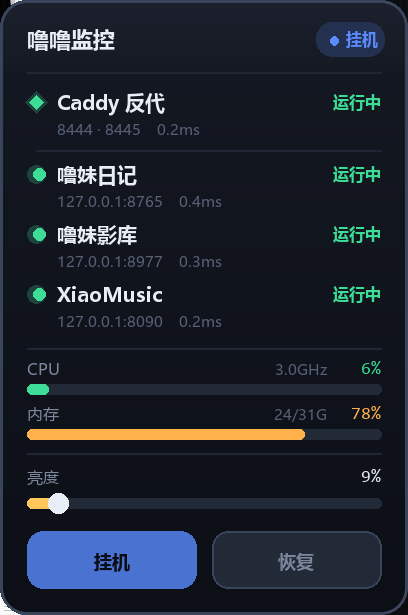
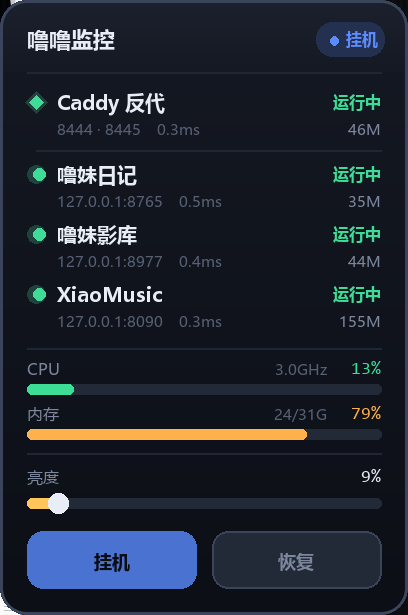
feat(widget): 服务行显示各自的进程树内存占用
每个服务/Caddy 的副标题右侧加内存读数（如 35M / 156M），
右对齐排在与「运行中」同一列，方便纵向比较谁吃内存。

统计口径：
- listen_pids() 用一次 psutil.net_connections() 把 5 个端口对应的
  pid 全查出来（本机 900 条连接，实测 6ms），不逐个反查。
- tree_rss_mb() 对 pid 取 children(recursive=True) 做进程树求和：
  XiaoMusic 主进程 98M + 它拉起的 node.exe 58M = 156M，
  只看主进程会少报一半。
- 不往上算父进程（venv 启动器、wscript 是外壳，会爬进 explorer.exe）；
  排除 conhost.exe（控制台宿主，按控制台分配、会被复用）。
- fmt_mb() 归一单位：<1024M 显示 35M，否则 1.5G。
- 服务没在监听时不显示内存（pid 反查不到）。

实测：日记 35M、影库 44M、XiaoMusic 154M、Caddy 44M，连续 5 次采样稳定。
下线态已验证：不显示内存、圆点转红、Caddy 部分可用显示「部分」。

diff --git a/lulu-watch/widget.py b/lulu-watch/widget.py
@@ -192,6 +192,59 @@ def probe_caddy(ports=None, timeout=0.35):
     return live, best
 
 
+def listen_pids(ports):
+    """一次枚举所有 TCP 监听，返回 {端口: pid}。比逐个端口反查快得多，
+    而且一次调用就能把四个服务全查完（本机 900 来条连接，实测 6ms）。"""
+    want = set(ports)
+    out = {}
+    try:
+        for c in psutil.net_connections(kind="tcp"):
+            if c.status != psutil.CONN_LISTEN or not c.laddr:
+                continue
+            port = c.laddr.port
+            if port in want and c.pid:
+                out.setdefault(port, c.pid)
+    except Exception:
+        pass
+    return out
+
+
+def tree_rss_mb(pid):
+    """pid 及其全部子孙进程的常驻内存合计（MB）。
+
+    必须算子进程：XiaoMusic 主进程 98M，它还拉一个 node 跑 js 插件再占 58M，
+    只看主进程会少报一半。反过来**不**往上算父进程——venv 启动器、
+    wscript 那些是外壳，一路往上会爬进 explorer.exe。
+    conhost.exe 也排除：那是 Windows 的控制台宿主，按控制台分配、会被复用，
+    不是服务自己的开销。"""
+    if not pid:
+        return None
+    try:
+        p = psutil.Process(pid)
+        procs = [p] + p.children(recursive=True)
+    except Exception:
+        return None
+    total, got = 0, False
+    for q in procs:
+        try:
+            if q.name().lower() == "conhost.exe":
+                continue
+            total += q.memory_info().rss
+            got = True
+        except Exception:
+            continue
+    return total / (1024 ** 2) if got else None
+
+
+def fmt_mb(mb):
+    """35 -> '35M'，1560 -> '1.5G'。统一成 3-4 个字符宽，右对齐才齐整。"""
+    if mb is None:
+        return ""
+    if mb >= 1024:
+        return f"{mb / 1024:.1f}G"
+    return f"{mb:.0f}M"
+
+
 def active_scheme():
     try:
         import winreg
@@ -599,6 +652,10 @@ def build_image(data, hover=None, k=None):
         sub = " / ".join(str(p) for p in CADDY_PORTS) + " 都没在听" if CADDY_PORTS else "没配端口"
     d.text((px(38), px(csy)), sub, font=F["sub"], fill=CLR["fg_faint"],
            anchor="lm")
+    cmem = fmt_mb(cad.get("mem"))
+    if cmem:
+        d.text((pw - px(18), px(csy)), cmem, font=F["sub"],
+               fill=CLR["fg_dim"], anchor="rm")
 
     # 入口与后端之间用更淡的分隔，暗示「这两条服务挂在它后面」
     d.line([(px(24), px(100)), (pw - px(18), px(100))],
@@ -622,6 +679,11 @@ def build_image(data, hover=None, k=None):
             sub += f"    {s['ms']:.1f}ms"
         d.text((px(38), px(sy)), sub, font=F["sub"], fill=CLR["fg_faint"],
                anchor="lm")
+        # 内存单独右对齐：让它和上面那排「运行中」右边缘对齐，扫一眼就能纵向比大小
+        smem = fmt_mb(s.get("mem"))
+        if smem:
+            d.text((pw - px(18), px(sy)), smem, font=F["sub"],
+                   fill=CLR["fg_dim"], anchor="rm")
 
     d.line([(px(18), px(232)), (pw - px(18), px(232))],
            fill=CLR["divider"], width=lw)
@@ -739,16 +801,24 @@ class Sampler(threading.Thread):
         while not self.stop_flag:
             try:
                 vm = psutil.virtual_memory()
+                # 端口 -> pid 一次查完（四个服务 + Caddy 两个端口共用一次枚举），
+                # 再按 pid 汇总各自进程树的内存
+                pidmap = listen_pids([p for _, p in SERVICES] + CADDY_PORTS)
                 svc = []
                 for name, port in SERVICES:
                     up, ms = probe_port(port)
-                    svc.append({"name": name, "port": port, "up": up, "ms": ms})
+                    mb = tree_rss_mb(pidmap.get(port)) if up else None
+                    svc.append({"name": name, "port": port, "up": up,
+                                "ms": ms, "mem": mb})
                 live, cms = probe_caddy()
+                # Caddy 两个站点在同一个进程里，取任一在听的端口即可
+                cpid = next((pidmap[p] for p in live if p in pidmap), None)
                 caddy = {
                     "live": live,
                     "ms": cms,
                     "state": ("ok" if len(live) == len(CADDY_PORTS)
                               else "warn" if live else "down"),
+                    "mem": tree_rss_mb(cpid),
                 }
                 self.q.put({
                     "cpu": psutil.cpu_percent(interval=None),
@@ -797,9 +867,9 @@ class Widget:
 
         self.data = {
             "cpu": 0.0, "mem": 0.0, "mem_used": 0, "mem_total": 0,
-            "svc": [{"name": n, "port": p, "up": False, "ms": None}
-                    for n, p in SERVICES],
-            "caddy": {"live": [], "ms": None, "state": "down"},
+            "svc": [{"name": n, "port": p, "up": False, "ms": None,
+                     "mem": None} for n, p in SERVICES],
+            "caddy": {"live": [], "ms": None, "state": "down", "mem": None},
             "scheme": active_scheme(),
             "bright": None,
             "bright_label": "亮度",
@@ -1145,14 +1215,19 @@ class Widget:
         st = cad.get("state")
         word = {"ok": "运行中", "warn": "部分", }.get(st, "未运行")
         live = cad.get("live") or []
-        return "%s  %s（%s）" % (CADDY_NAME, word,
-                                "·".join(str(p) for p in live) or "无端口")
+        return "%s  %s（%s）%s" % (CADDY_NAME, word,
+                                  "·".join(str(p) for p in live) or "无端口",
+                                  "  " + fmt_mb(cad.get("mem"))
+                                  if cad.get("mem") else "")
 
     def _svc_line(self, i):
         svc = self.data.get("svc") or []
         if i < len(svc):
             s = svc[i]
-            return "%s  %s" % (s["name"], "运行中" if s.get("up") else "未响应")
+            mem = fmt_mb(s.get("mem"))
+            return "%s  %s%s" % (s["name"],
+                                 "运行中" if s.get("up") else "未响应",
+                                 "  " + mem if mem else "")
         return "—"
 
     def _bright_line(self):
@@ -1229,16 +1304,20 @@ class Widget:
 # ==================== 预览 ====================
 def preview(k=2.0):
     scheme = active_scheme()
+    pidmap = listen_pids([p for _, p in SERVICES] + CADDY_PORTS)
     svc = []
     for name, port in SERVICES:
         up, ms = probe_port(port)
-        svc.append({"name": name, "port": port, "up": up, "ms": ms})
+        svc.append({"name": name, "port": port, "up": up, "ms": ms,
+                    "mem": tree_rss_mb(pidmap.get(port)) if up else None})
     live, cms = probe_caddy()
+    cpid = next((pidmap[p] for p in live if p in pidmap), None)
     caddy = {
         "live": live,
         "ms": cms,
         "state": ("ok" if len(live) == len(CADDY_PORTS)
                   else "warn" if live else "down"),
+        "mem": tree_rss_mb(cpid),
     }
     vm = psutil.virtual_memory()
     # 预览不真去读写显示器（DDC/CI 一次 60ms，且会改到用户当前的亮度），

diff --git a/lulu-watch/README.md b/lulu-watch/README.md
@@ -12,7 +12,7 @@ Windows 桌面小贴纸。透明圆角卡片，常驻右下角，实时显示本
 |---|---|
 | 顶部徽章 | 当前电源方案名称，颜色随方案变化（挂机=蓝、恢复=绿、守夜=紫、高性能=橙） |
 | Caddy 入口 | 8444 / 8445 哪个站点在听、握手耗时；菱形圆点 + 分隔线，表示它是下面日记/影库共用的入口 |
-| 服务状态 | 噜妹日记（8765）、噜妹影库（8977）、XiaoMusic（8090）是否监听、握手耗时 ms |
+| 服务状态 | 噜妹日记（8765）、噜妹影库（8977）、XiaoMusic（8090）是否监听、握手耗时 ms、**进程树常驻内存** |
 | 指标 | CPU 占用 + 当前频率、内存占用 + 已用/总量 |
 | 亮度 | 2K 那台显示器（AOC Q27G1WG4）的 DDC/CI 硬件亮度，可拖滑杆或点滑杆直接跳；托盘菜单还有 30/50/70/100% 四档 |
 | 按钮 | 「挂机」「恢复」一键切换电源方案，当前方案按钮高亮 |
@@ -100,6 +100,11 @@ python  widget.py --preview  :: 只渲染预览图 preview.png / preview_dark.pn
 - **按物理像素渲染**：启动时 `SetProcessDpiAwareness(1)` 取系统 DPI，`SCALE = dpi/96`，窗口尺寸与所有坐标都乘 `SCALE`，避免 4K/150% 缩放下文字被系统二次拉伸发虚。
 - **透明圆角**：窗口 `-transparentcolor #ff00ff` 抠图；圆角蒙版单独用 L 通道超采样（`SS` 倍）后二值化阈值化，避免缩放后边缘残留洋红像素。渐变背景层按 `SCALE` 缓存复用，不每帧重绘。
 - **采样与绘制解耦**：后台线程每 1.2s 采一次 `psutil` + 五次 TCP 握手（Caddy 两个端口 + 三个服务端口），放进 `queue`；主线程 `after(150ms)` 非阻塞取最新值重绘。
+- **服务内存怎么算的**：先 `listen_pids()` 用**一次** `psutil.net_connections()` 把四个端口对应的 pid 全查出来（本机 900 来条连接，实测 6ms；逐个端口反查要慢一个量级），再对每个 pid 取 `Process(pid).children(recursive=True)` 做**进程树**求和，取 `memory_info().rss`。
+  - **必须算子进程**：XiaoMusic 主进程 98M，它还拉一个 `node.exe` 跑 js 插件再占 58M，只统计主进程会少报一半（显示 98M 而不是 156M）。
+  - **不往上算父进程**：venv 启动器、`wscript.exe` 这些是外壳，一路往上会爬进 `explorer.exe`，把整个桌面算进去。
+  - **排除 `conhost.exe`**：那是 Windows 的控制台宿主，按控制台分配、会被复用，不是服务自己的开销（Caddy 会带一个 10M 的）。
+  - 单位在 `fmt_mb()` 里归一：小于 1024M 显示 `35M`，否则 `1.5G`，保持 3–4 字符宽好对齐。内存右对齐排在与「运行中」同一列，扫一眼就能纵向比大小。
 - **Caddy 为什么单独一行**：8444 与 8445 是**同一个 Caddy 进程里的两个站点**，不是两个独立服务。它一挂，手机和电视两个入口同时失联，而本机 8765 / 8977 两个端口还都通 —— 这种情况在只看端口的面板上看不出来。所以 Caddy 单列一行，用**菱形**圆点与下面几个**圆形**服务点区分，并在入口与后端之间加一条更淡的分隔线，表示「这两条服务挂在它后面」。三态：两个端口都在 = 运行中（绿）、只在一个 = 部分（琥珀）、都不在 = 未运行（红）。
 - **XiaoMusic 为什么排在服务区最后、而不是挂在 Caddy 下**：它跑在 8090，**没有**进 Caddy 反代，只在本机可达，跟 8444/8445 那两个对外入口不是一条链路。所以它是一个普通的独立服务行，和日记/影库平级，只在位置和顺序上排在后面；Caddy 挂掉不影响它显示绿色，这是对的。
 - **切换方案不卡界面**：点击后先乐观更新徽章颜色，再后台 `subprocess` 调 `powercfg /setactive`，完成后回读真实值。
@@ -119,6 +124,7 @@ python  widget.py --preview  :: 只渲染预览图 preview.png / preview_dark.pn
 - Win11 上新注册的托盘图标可能被折叠进「^ 溢出区」，拖到任务栏上固定一次即可。
 - 切换电源方案本身不需要管理员权限，但如果目标方案被组策略锁定，`powercfg /setactive` 会静默失败，徽章会回读显示真实方案。
 - 探测是 TCP 握手，只能判断端口是否在监听，不代表服务内部逻辑健康；Caddy 同理，只看 8444/8445 在不在听，不代表证书和反代规则都对。XiaoMusic 也没有 `/health` 之类的健康端点（`/api/health`、`/api/status` 全是 404），所以它同样只看 8090 在不在听。
+- 内存数字是**进程树 RSS 之和**，不是独占内存：多个进程共享的 DLL 页会被各算一遍，所以几项加起来会略大于实际占用。服务没在监听时不显示内存（连 pid 都反查不到）。
 - 亮度只对**支持 DDC/CI 的那台**有效。本机 2K 的 AOC 支持硬件调光（真的改背光、省电）；4K 的 Mi Monitor 走 DP 不响应 DDC/CI，所以挂件不控制它 —— 它原来的「调暗」是 Gamma 软件曲线，不省电、黑色发灰，挂件没有沿用那套。
 - DDC/CI 和显示器自带菜单、其他调光软件会互相抢：同时开两个程序写亮度，会出现「滑杆回弹」或「调了又被改回去」。之前桌面上那个 `显示器亮度`（`BrightnessCtl.exe`）已经删掉，现在只有挂件在写这块屏。
 - 亮度滑杆只在识别到显示器时才出现；识别不到（`find_brightness_monitor` 返回 `None`）时显示「不可用 / 这台显示器没响应 DDC/CI」，不会假装能调。
